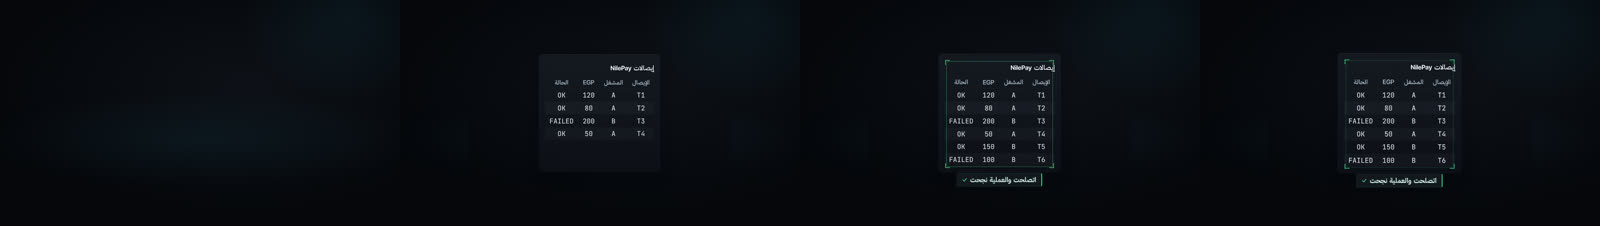
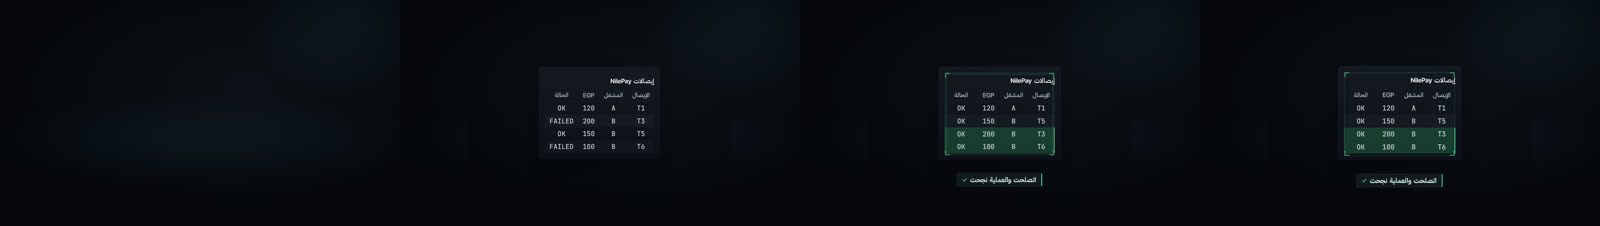
P7 FixSettle r2: demo flips FAILED rows to OK on the anchor (filter + addRow + ok highlight); beat strip at standard/hero (anchor-1..+5); rim padded 18 px; re-baselined pending-critic; perf in budget; CR for a1 override
Claude-Session: https://claude.ai/code/session_01VrU9wxU8GmuhdhWAAHnnQ8

diff --git a/studio/src/demos/fx-a.tsx b/studio/src/demos/fx-a.tsx
@@ -22,7 +22,17 @@ const RECEIPTS = {
     {id: 'T6', operator: 'B', amount_egp: 100, status: 'FAILED'},
   ],
 };
-const table = (name: string) => ({component: 'TableGrid', props: {id: 'receipts', ref: 'd:5.2:1', title: 'إيصالات NilePay', slot: 'center', ...RECEIPTS}, at: {word: W(name, 1), lead_frames: 2}});
+// FixSettle: 4 rows + the 2 retried rows added on the anchor = 6, so the table keeps the body size and stays inside the slot
+const FIX_RECEIPTS = {
+  columns: RECEIPTS.columns,
+  rows: [
+    {id: 'T1', operator: 'A', amount_egp: 120, status: 'OK'},
+    {id: 'T3', operator: 'B', amount_egp: 200, status: 'FAILED'},
+    {id: 'T5', operator: 'B', amount_egp: 150, status: 'OK'},
+    {id: 'T6', operator: 'B', amount_egp: 100, status: 'FAILED'},
+  ],
+};
+const table = (name: string, data: typeof RECEIPTS = RECEIPTS) => ({component: 'TableGrid', props: {id: 'receipts', ref: 'd:5.2:1', title: 'إيصالات NilePay', slot: 'center', ...data}, at: {word: W(name, 1), lead_frames: 2}});
 const rate = (name: string, id = 'rate', slot = 'center') => ({
   component: 'NumberCounter',
   props: {id, to: {value: 66.67, ref: 'd:5.2:7', unit: '%', decimals: 2}, format: 'percent', label: 'نسبة النجاح', slot},
@@ -62,7 +72,13 @@ const demos: DemoModule = {
         fx_tier: 'standard',
         camera: cam,
         layers: [
-          table('FixSettle'),
+          table('FixSettle', FIX_RECEIPTS),
+          // the flip, on the anchor: the two FAILED rows (T3, T6) close up and leave, and the same two receipts re-arrive as OK (retried),
+          // filled ok; the settle then lands on the table, so the chip never contradicts a visible FAILED row
+          {component: 'TableGrid.filterRows', props: {target: 'receipts', keep: [0, 2]}, at: {word: W('FixSettle', 2), lead_frames: 2}},
+          {component: 'TableGrid.addRow', props: {target: 'receipts', row: {id: 'T3', operator: 'B', amount_egp: 200, status: 'OK'}}, at: {word: W('FixSettle', 2), lead_frames: 2}},
+          {component: 'TableGrid.addRow', props: {target: 'receipts', row: {id: 'T6', operator: 'B', amount_egp: 100, status: 'OK'}}, at: {word: W('FixSettle', 2), lead_frames: 2}},
+          {component: 'TableGrid.highlightRows', props: {target: 'receipts', rows: [4, 5], color: 'ok'}, at: {word: W('FixSettle', 2), lead_frames: 2}},
           {component: 'FixSettle', props: {to: 'receipts', label_ar: 'اتصلحت والعملية نجحت', slot: 'lower-third'}, at: {word: W('FixSettle', 2), lead_frames: 2}},
         ],
       },

diff --git a/studio/src/components/FixSettle/FixSettle.tsx b/studio/src/components/FixSettle/FixSettle.tsx
@@ -74,11 +74,11 @@ export const FixSettleView: React.FC<DcProps<Props>> = ({props, ctx}) => {
     <div ref={ref} style={{position: 'absolute', inset: 0, pointerEvents: 'none', opacity: k}}>
       {r && t >= 0 ? (
         <>
-          <div style={{...abs(pad(r, 12)), borderRadius: 10, boxShadow: lite ? `0 0 0 1px ${C.ok}${hex(0.5 * st.q)}` : `0 0 0 1px ${C.ok}${hex(0.5 * st.q)}, ${boxGlow(C.ok, ctx.fx, 0.5 * st.q)}`}} />
+          <div style={{...abs(pad(r, 18)), borderRadius: 10, boxShadow: lite ? `0 0 0 1px ${C.ok}${hex(0.5 * st.q)}` : `0 0 0 1px ${C.ok}${hex(0.5 * st.q)}, ${boxGlow(C.ok, ctx.fx, 0.5 * st.q)}`}} />
           {st.on ? <Converge r={r} u={Math.min(1, t / settleLen(ctx.fps))} seed={seed} fx={ctx.fx} /> : null}
           <Brackets r={r} color={C.ok} fx={ctx.fx} opacity={Math.min(1, 0.4 + st.q)} spread={18 + CLOSE_PX * (1 - st.q)} />
           {sweepOn ? (
-            <div style={{...abs(pad(r, 12)), overflow: 'hidden', borderRadius: 10}}>
+            <div style={{...abs(pad(r, 18)), overflow: 'hidden', borderRadius: 10}}>
               <div
                 style={{
                   position: 'absolute',
